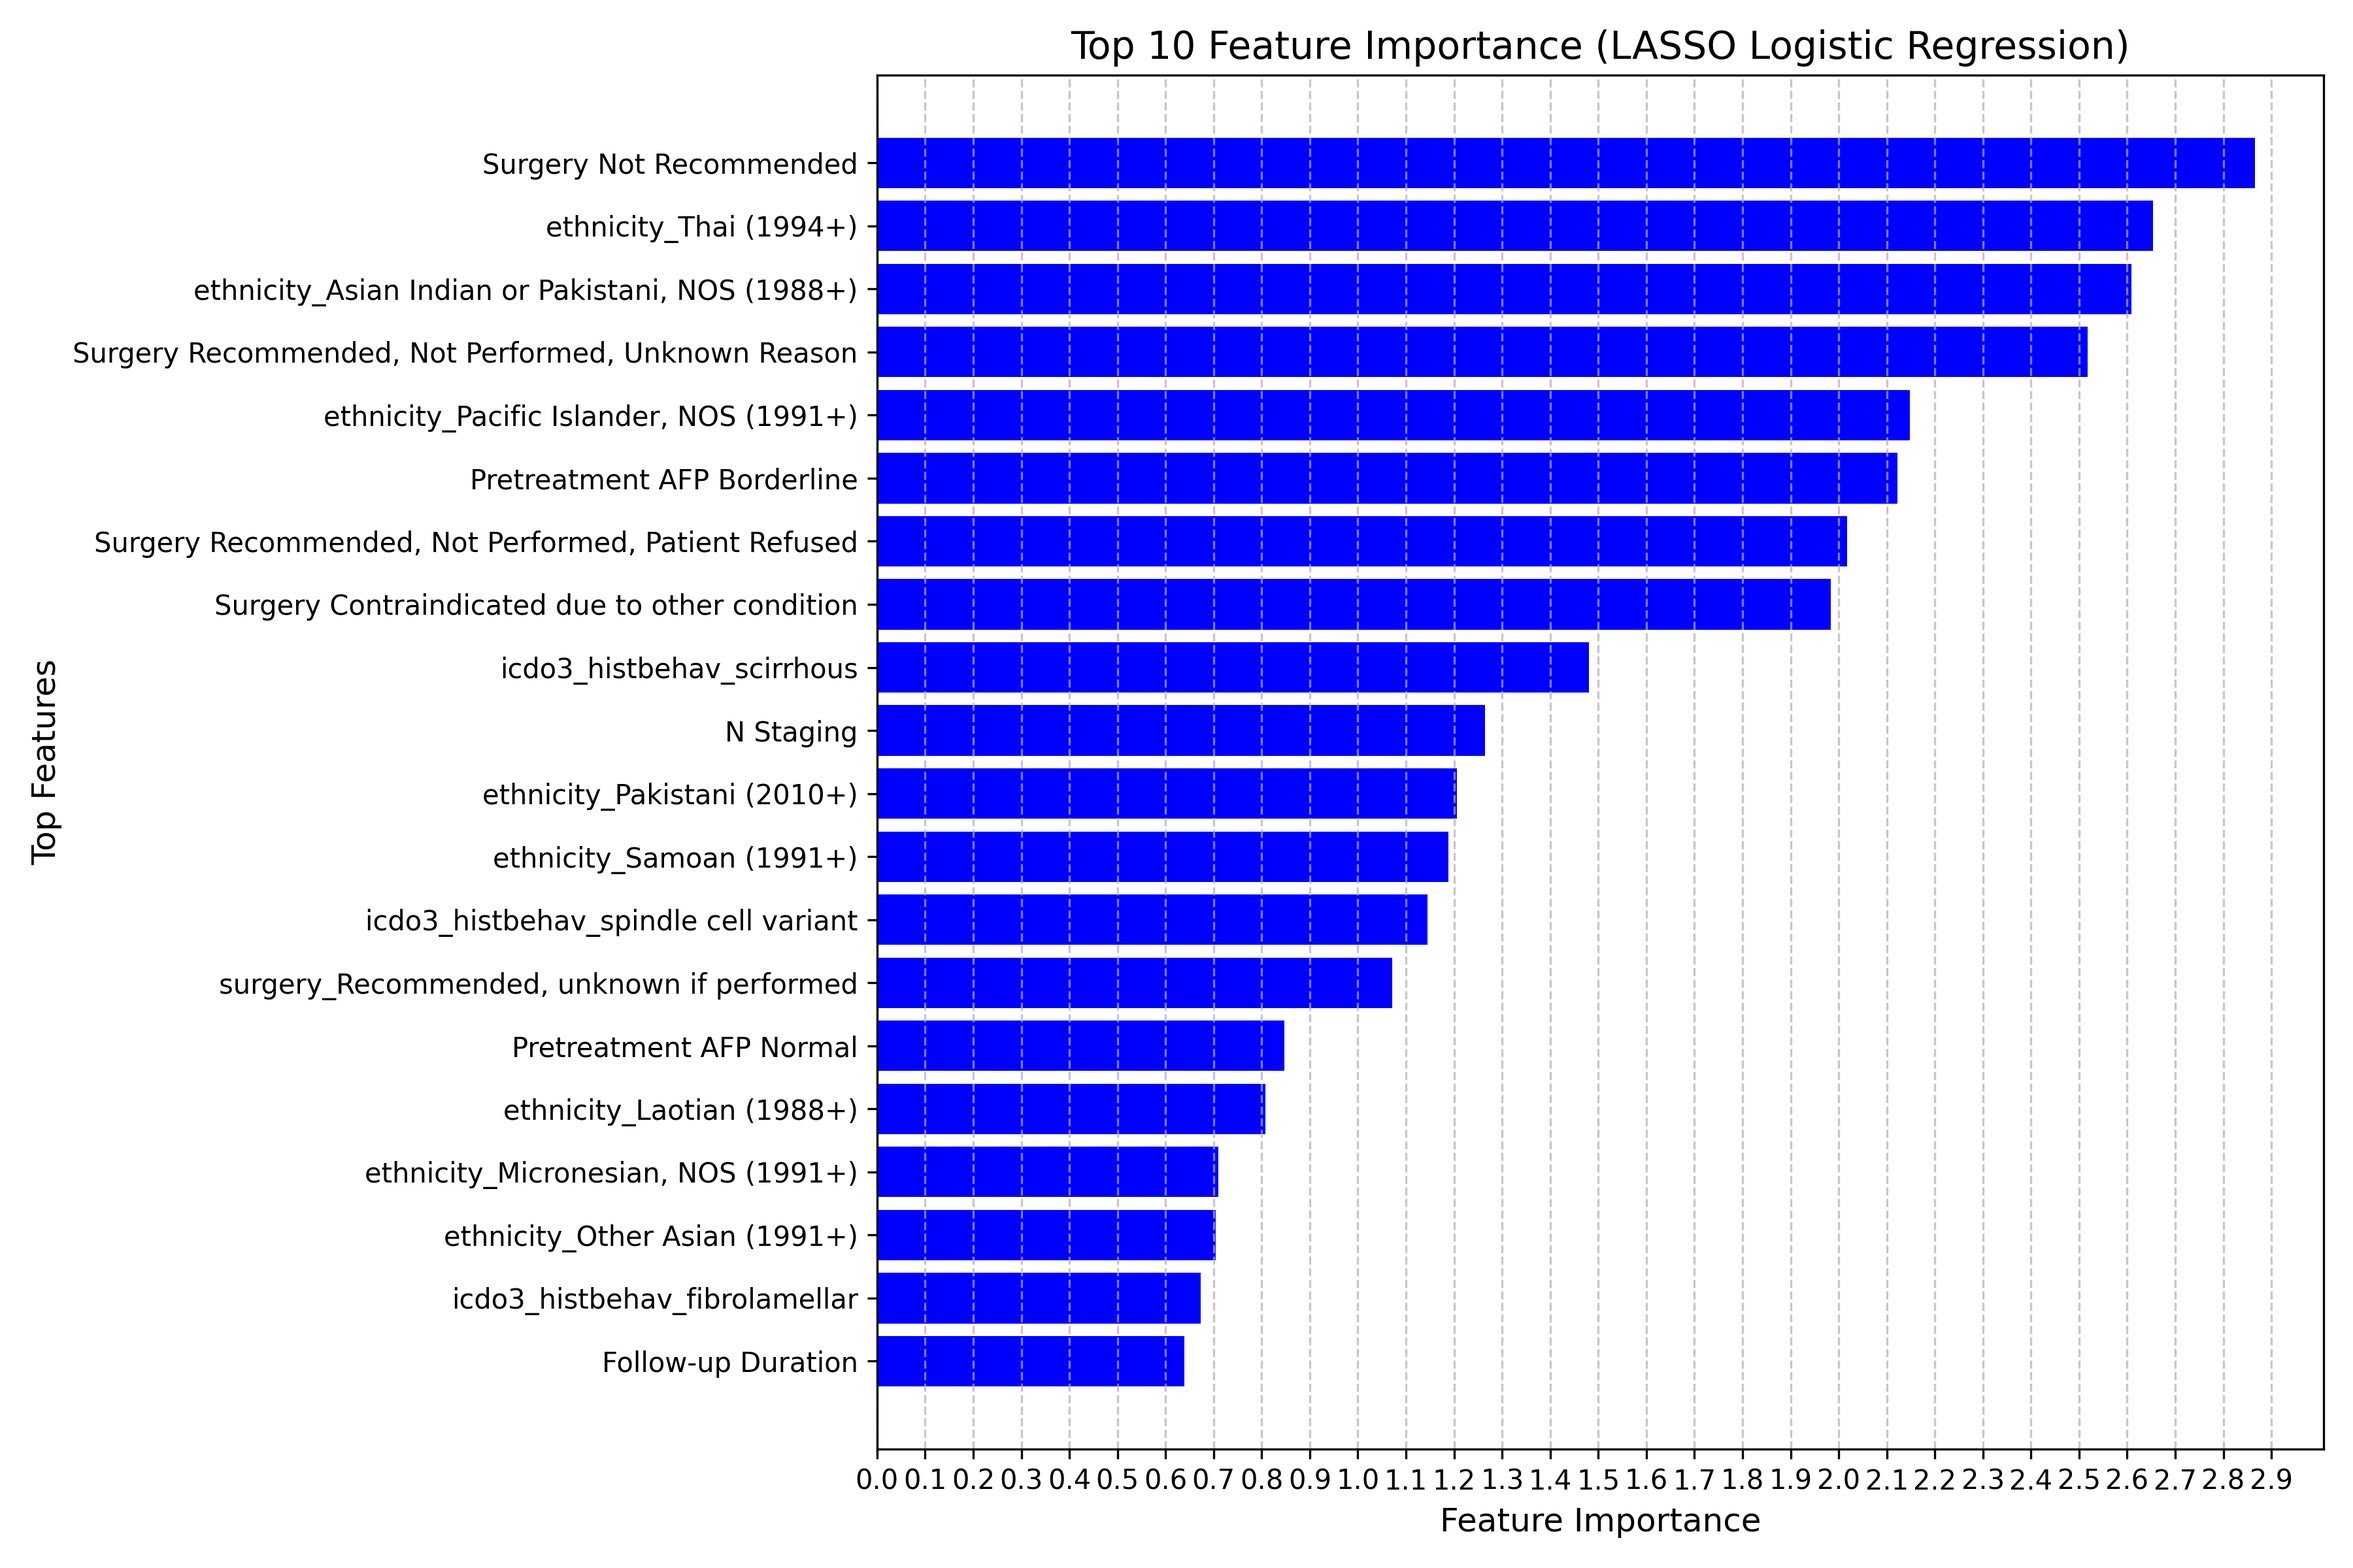
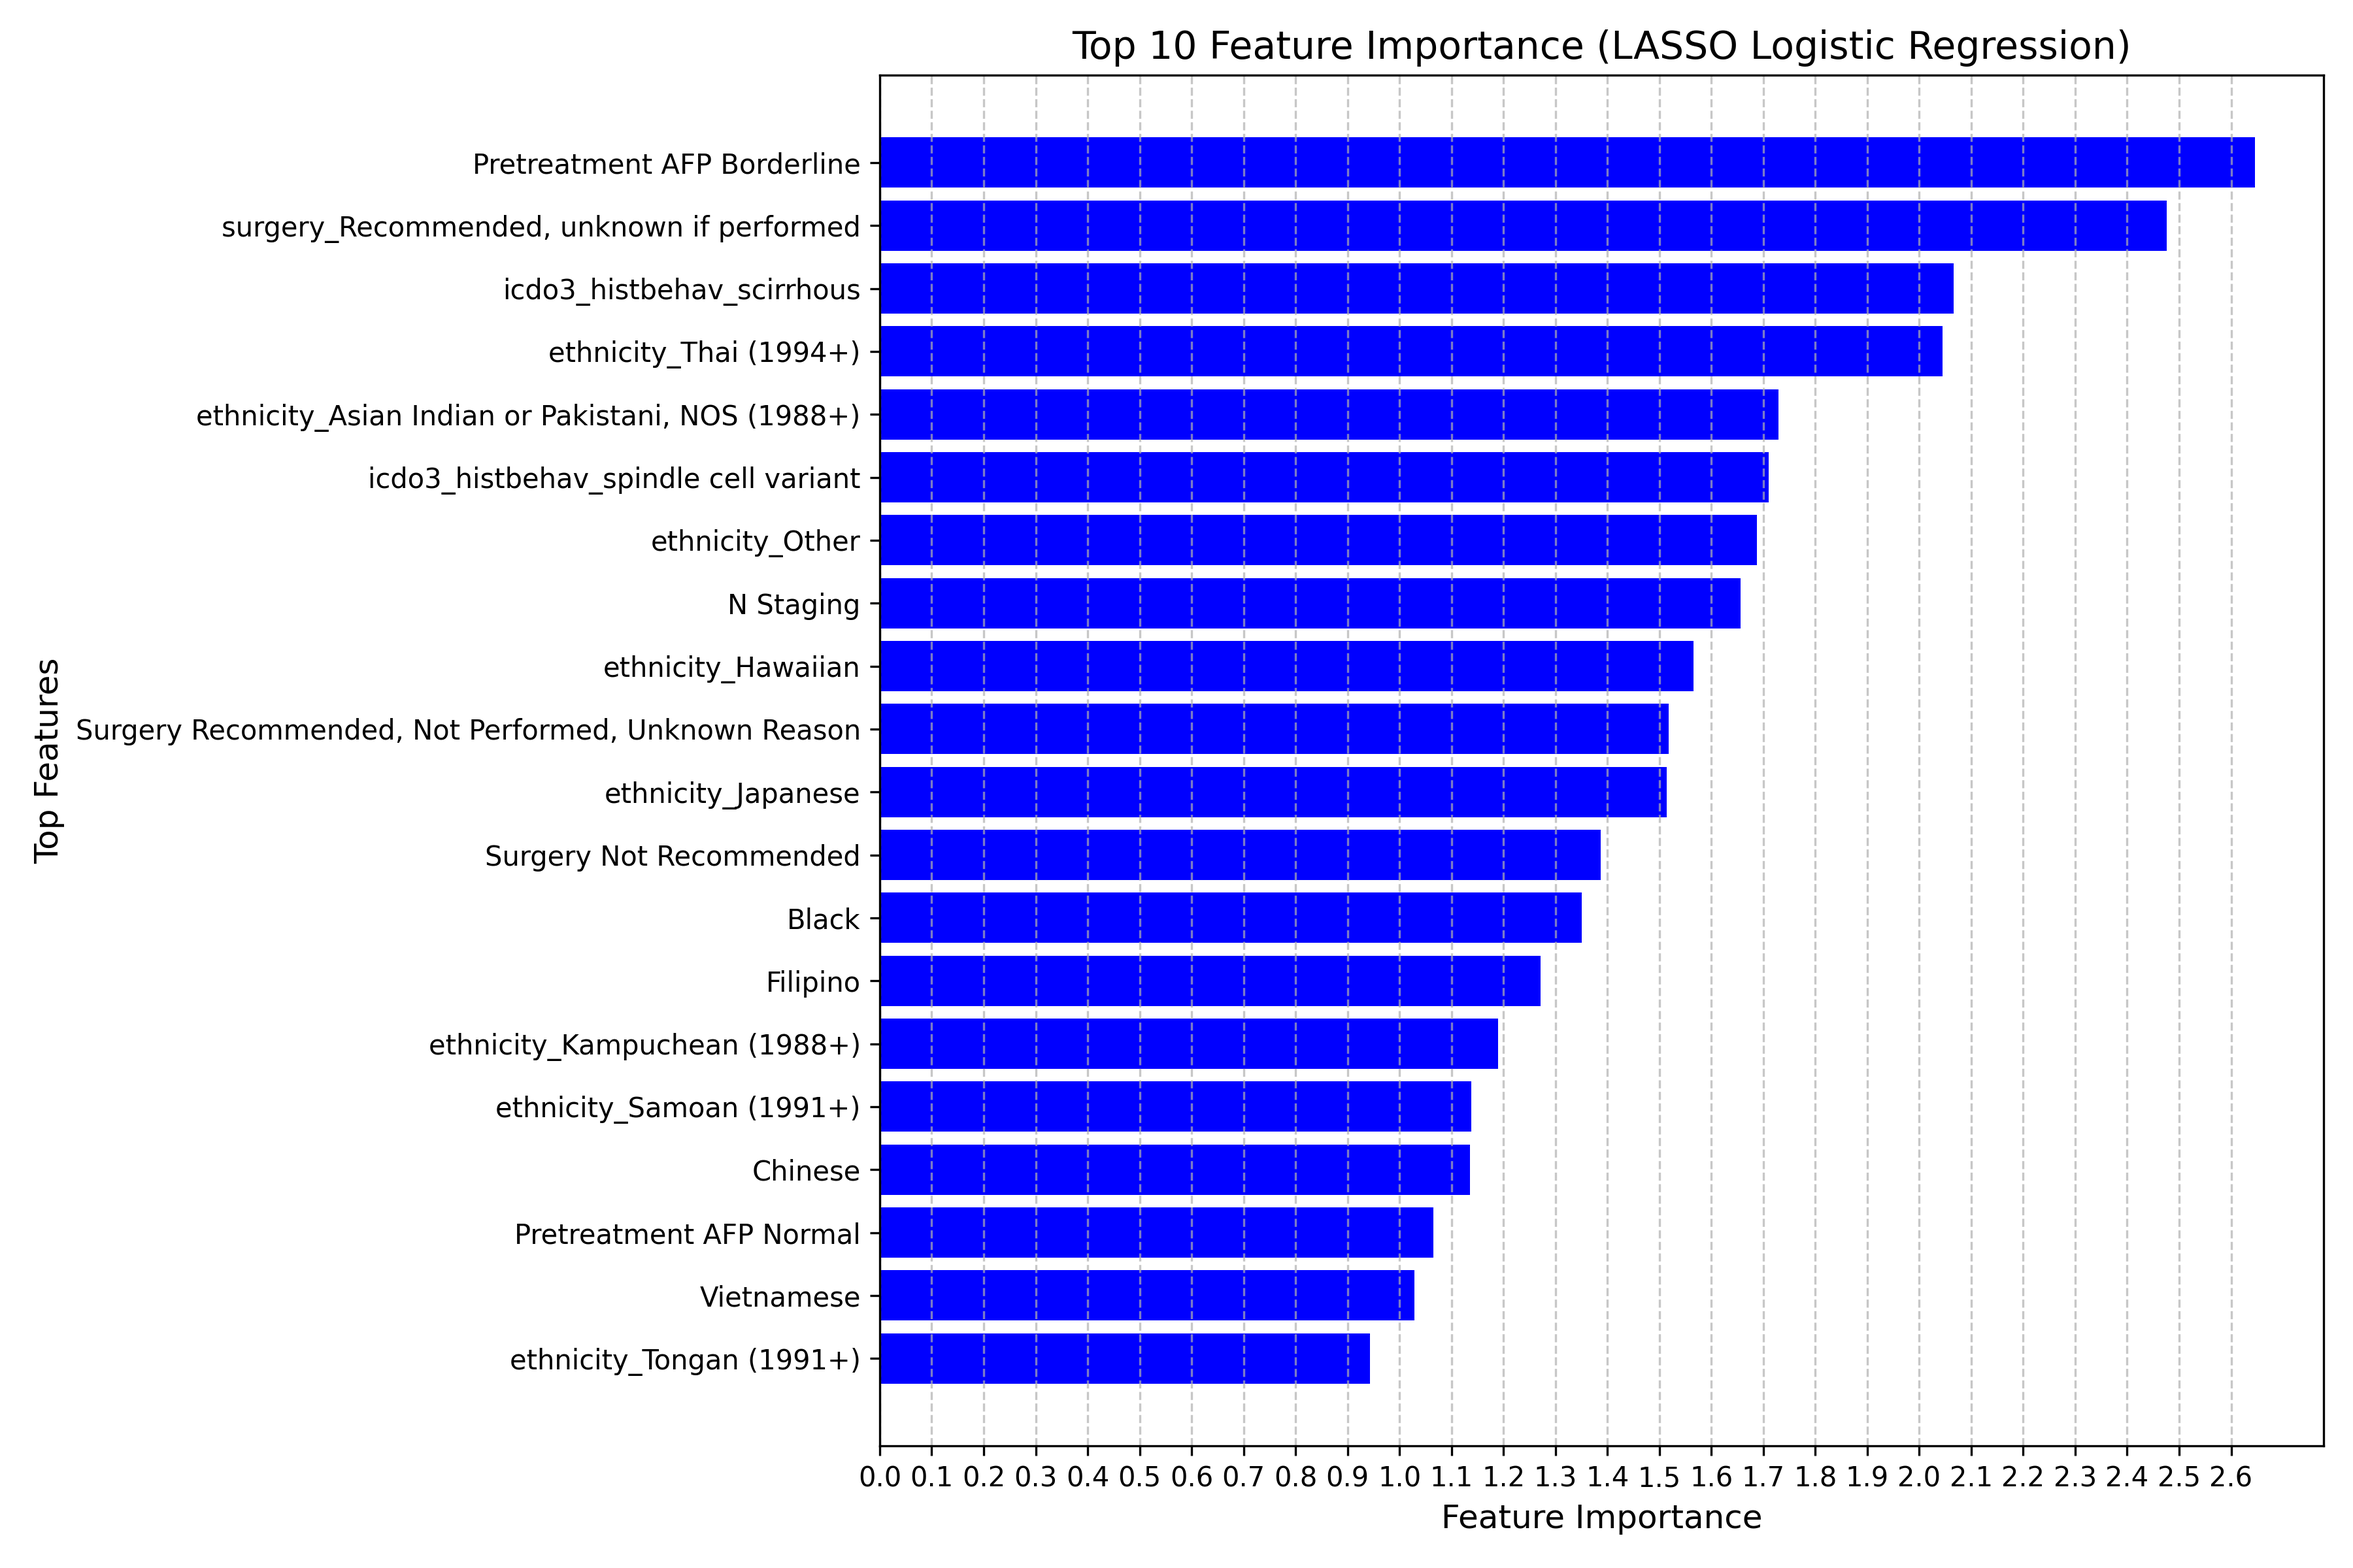
added toggles for bone as target and to drop surgical related features

diff --git a/utils.py b/utils.py
@@ -121,13 +121,41 @@ def prep_data(save=False):
         data.to_excel(file_path, index=False)
 
     print(f"Data saved successfully to {file_path}")
+
+
+
+    # # Example usage
+    # features = [
+    #     'Surgery Not Recommended', 'ethnicity_Thai (1994+)', 'ethnicity_Asian Indian or Pakistani, NOS (1988+)', 
+    #     'Surgery Recommended, Not Performed, Unknown Reason', 'ethnicity_Pacific Islander, NOS (1991+)', 
+    #     'Pretreatment AFP Borderline', 'Surgery Recommended, Not Performed, Patient Refused', 
+    #     'Surgery Contraindicated due to other condition', 'icdo3_histbehav_scirrhous', 'N Staging', 
+    #     'ethnicity_Pakistani (2010+)', 'ethnicity_Samoan (1991+)', 'icdo3_histbehav_spindle cell variant', 
+    #     'surgery_Recommended, unknown if performed', 'Pretreatment AFP Normal', 'ethnicity_Laotian (1988+)', 
+    #     'ethnicity_Micronesian, NOS (1991+)', 'ethnicity_Other Asian (1991+)', 'icdo3_histbehav_fibrolamellar', 
+    #     'Follow-up Duration'
+    # ]
+    # plot_feature_distributions(features, data, label_column="bone_met")
     return data
 
 
-def split_data(data):
+def split_data(data, drop_real_world=False, bone = True):
     # Separate features and targets for bone metastasis
     X = data.drop(columns=['bone_met', 'lung_met'])
-    y_bone = data['bone_met']
+    if drop_real_world:
+        X= X.drop(columns = ['surgery_Not recommended', 
+                             "surgery_Not recommended, contraindicated due to other cond; autopsy only (1973-2002)",
+                            "surgery_Recommended but not performed, patient refused",
+                            "surgery_Recommended but not performed, unknown reason",
+                            "surgery_Recommended, unknown if performed",
+                            'surgery_Surgery performed',
+                            'surgery_Unknown; death certificate; or autopsy only (2003+)'])
+
+    if bone:
+        y_bone = data['bone_met']
+    else:
+        y_bone = data['lung_met']
+
 
 
     # Split data for bone metastasis
@@ -194,9 +222,11 @@ def get_metrics(y_proba_bone,y_test_bone):
 
 #     return feature_ranking
 
-def cumulative_feature_importance(models, thresholds=[3, 5, 10, 15,20]):
+def cumulative_feature_importance(models, thresholds=[3, 5, 10, 15, 20]):
     print(thresholds)
     results = {}
+    conserved_features = {}
+
     for threshold in thresholds:
         if not isinstance(threshold, int):
             raise ValueError(f"Threshold value must be an integer, got {threshold}")
@@ -209,5 +239,48 @@ def cumulative_feature_importance(models, thresholds=[3, 5, 10, 15,20]):
         
         # Store the result
         results[threshold] = len(common_features)
+        conserved_features[threshold] = common_features  # Save the feature names for this threshold
     
-    return results
+    # Print the conserved features for each threshold
+    for threshold, features in conserved_features.items():
+        print(f"\nFor threshold {threshold}, conserved features ({len(features)}):")
+        for feature in features:
+            print(f"- {feature}")
+
+    return results, conserved_features
+
+
+
+import os
+import matplotlib.pyplot as plt
+import pandas as pd
+
+def plot_feature_distributions(features, data, label_column, output_dir="feature_distributions"):
+    # Create output directory if it doesn't exist
+    os.makedirs(output_dir, exist_ok=True)
+    
+    for feature in features:
+        if feature not in data.columns:
+            print(f"Feature '{feature}' not found in data.")
+            continue
+        
+        # Group by the feature and label column, count occurrences
+        grouped = data.groupby([feature, label_column]).size().unstack(fill_value=0)
+        
+        # Create a bar plot
+        grouped.plot(kind='bar', figsize=(10, 6))
+        plt.title(f"Distribution of {label_column} for {feature}", fontsize=14)
+        plt.xlabel(feature, fontsize=12)
+        plt.ylabel("Count", fontsize=12)
+        plt.xticks(rotation=45)
+        plt.grid(axis='y', linestyle='--', alpha=0.7)
+        plt.legend(title=label_column, labels=['0', '1'])
+        
+        # Save the plot
+        save_path = os.path.join(output_dir, f"{feature}_distribution.png")
+        plt.tight_layout()
+        plt.savefig(save_path, dpi=300)
+        plt.close()
+    
+    print(f"Plots saved in '{output_dir}'.")
+

diff --git a/main.py b/main.py
@@ -17,7 +17,7 @@ of precision, F1 score, and AUC value to evaluate its overall effectiveness.
 def main():
     data = prep_data(save=False)
     X_train_bone, X_test_bone, y_train_bone, \
-        y_test_bone,X_resampled_bone, y_resampled_bone = split_data(data)
+        y_test_bone,X_resampled_bone, y_resampled_bone = split_data(data, drop_real_world = False, bone=True)
 
 
 
@@ -29,13 +29,14 @@ def main():
     print(xg_imps)
     print(lr_imps)
     print(rf_imps)
+
     models = [
         {'model_name': 'LR', 'top_features': lr_imps},
         {'model_name': 'XGBoost', 'top_features': xg_imps},
         {'model_name': 'Random Forest', 'top_features': rf_imps}
     ]
-    feature_ranking = cumulative_feature_importance(models)
-    print(feature_ranking)
+    feature_ranking,results = cumulative_feature_importance(models)
+    print(results)
     
     
     # feature_ranking.to_csv('combined_feat_imps.csv')
@@ -59,7 +60,7 @@ def main():
     engine(X_train_bone,X_test_bone,y_train_bone,y_test_bone)
 
     #using SMOTE data
-    engine(X_resampled_bone,X_test_bone,y_resampled_bone,y_test_bone)
+    # engine(X_resampled_bone,X_test_bone,y_resampled_bone,y_test_bone)
 
 
 

diff --git a/dl_model.py b/dl_model.py
@@ -170,8 +170,8 @@ def train_loop(model, train_loader, test_loader, pos_weight, num_epochs=100, lr=
             outputs = model(X_batch)
             # loss_pr = criterion_pr(outputs, y_batch.long())
             # loss_rec = criterion_rec(outputs, y_batch.long())
-            # loss_celw = criterion_celw(outputs, y_batch.long())
-            loss_cel = criterion_cel(outputs, y_batch.long())
+            loss_celw = criterion_celw(outputs, y_batch.long())
+            # loss_cel = criterion_cel(outputs, y_batch.long())
             # loss_foc = criterion_foc(outputs, y_batch.long())
             
             # recall_loss_term = rec_reg * loss_rec
@@ -182,9 +182,9 @@ def train_loop(model, train_loader, test_loader, pos_weight, num_epochs=100, lr=
             # fin_loss = loss_celw + recall_loss_term # This does not work with recall term
             
             # fin_loss = loss_pr 
-            fin_loss = loss_cel 
+            # fin_loss = loss_cel 
             # fin_loss = loss_foc 
-            # fin_loss = loss_celw 
+            fin_loss = loss_celw 
 
 
             fin_loss.backward()
